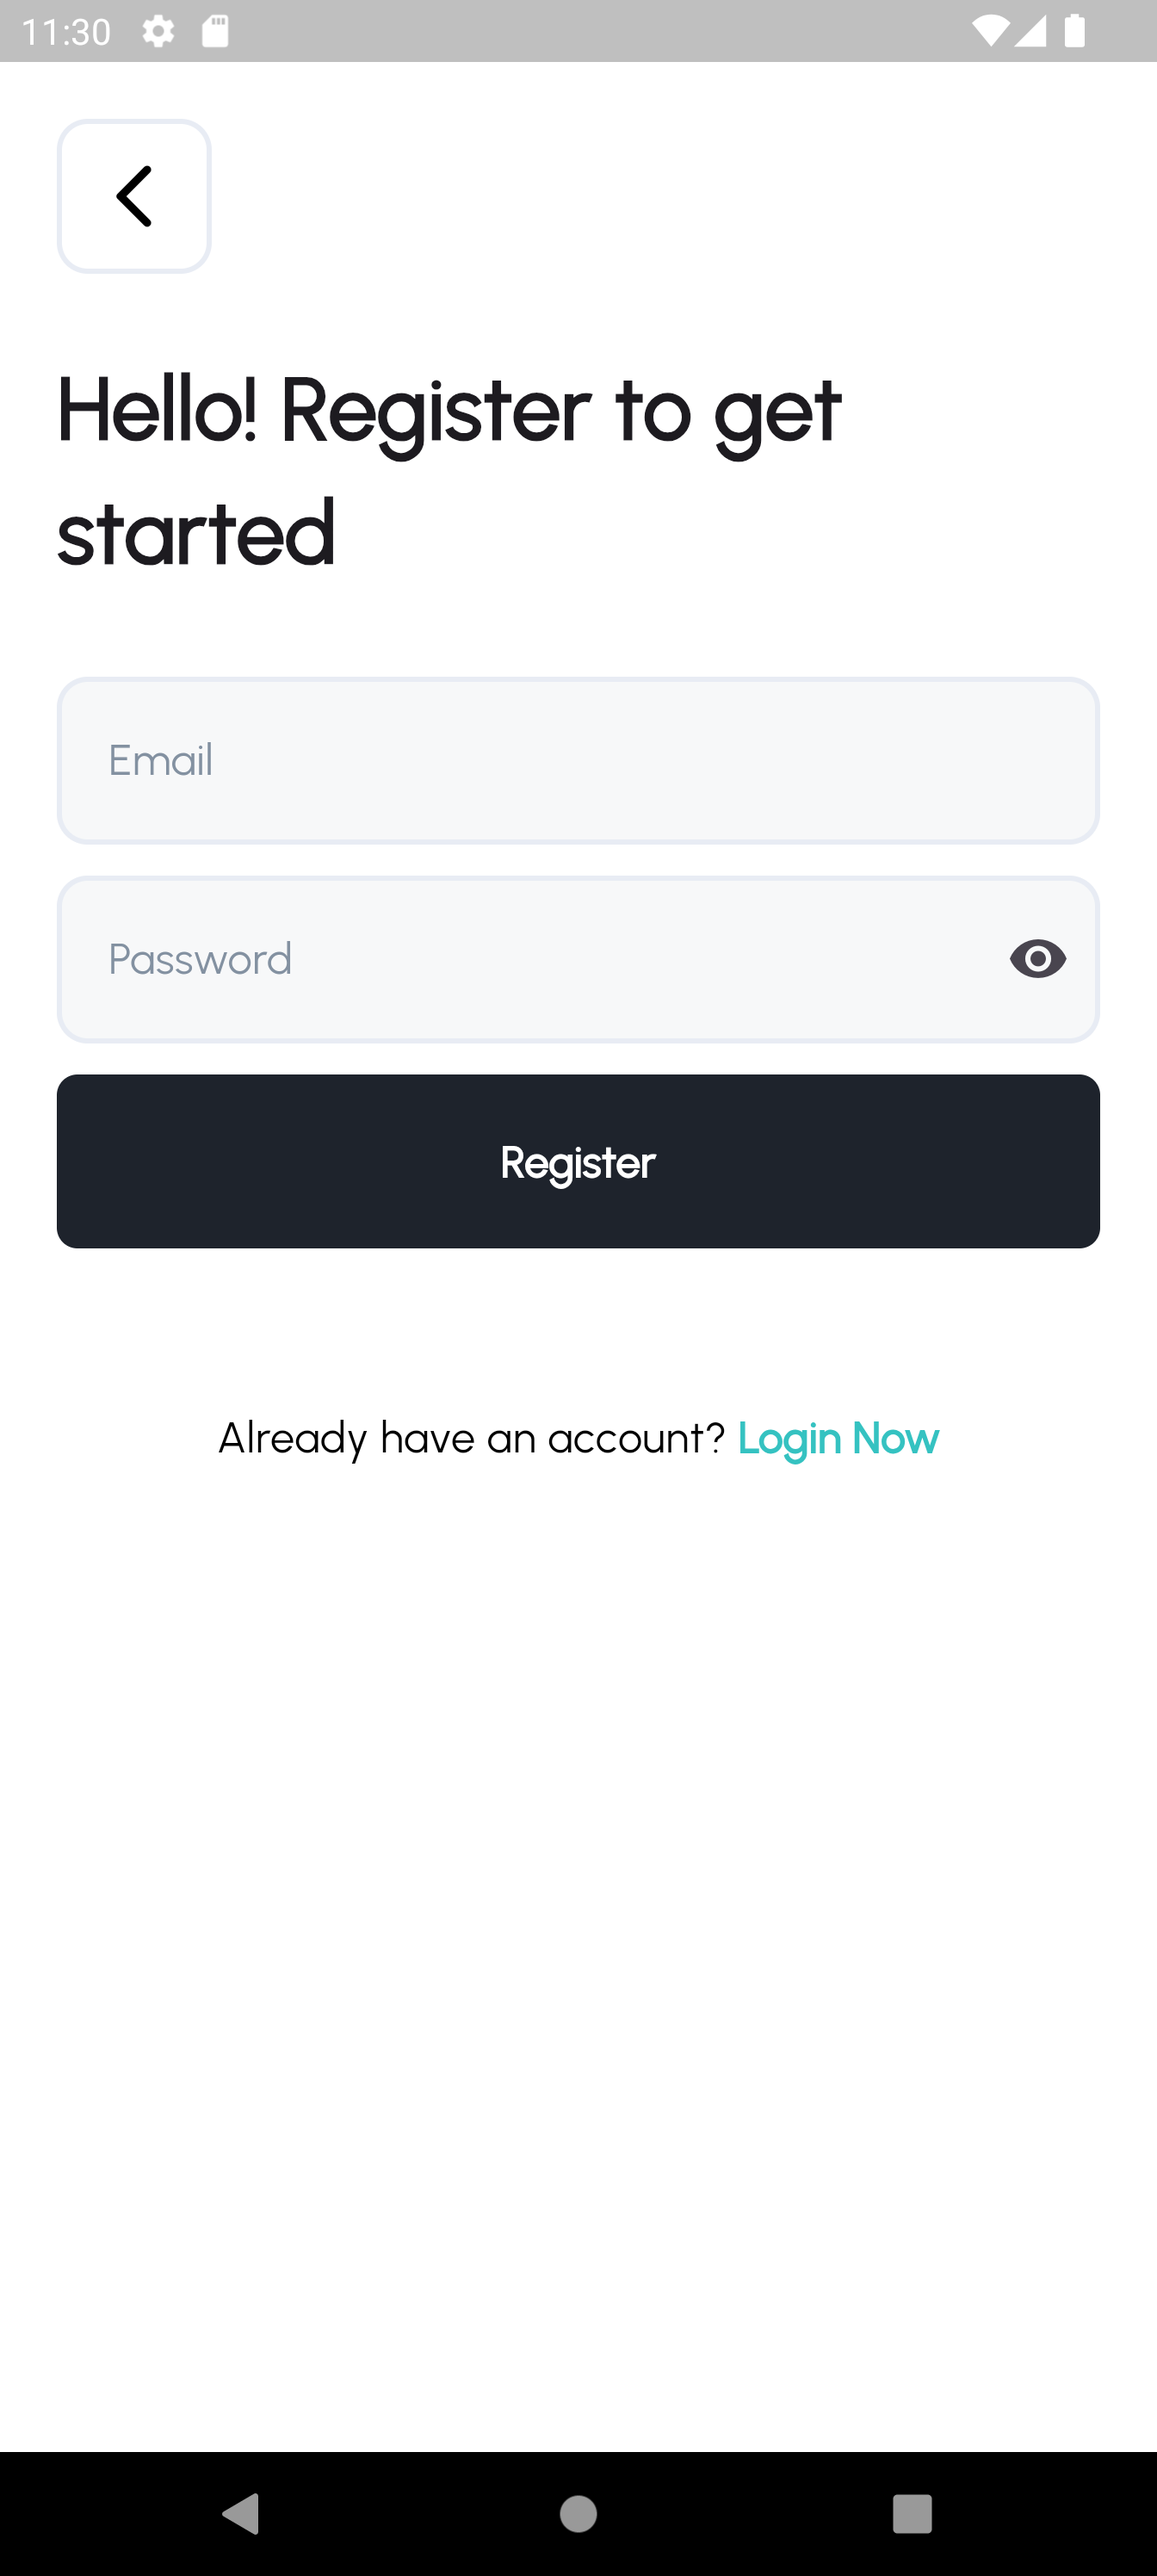
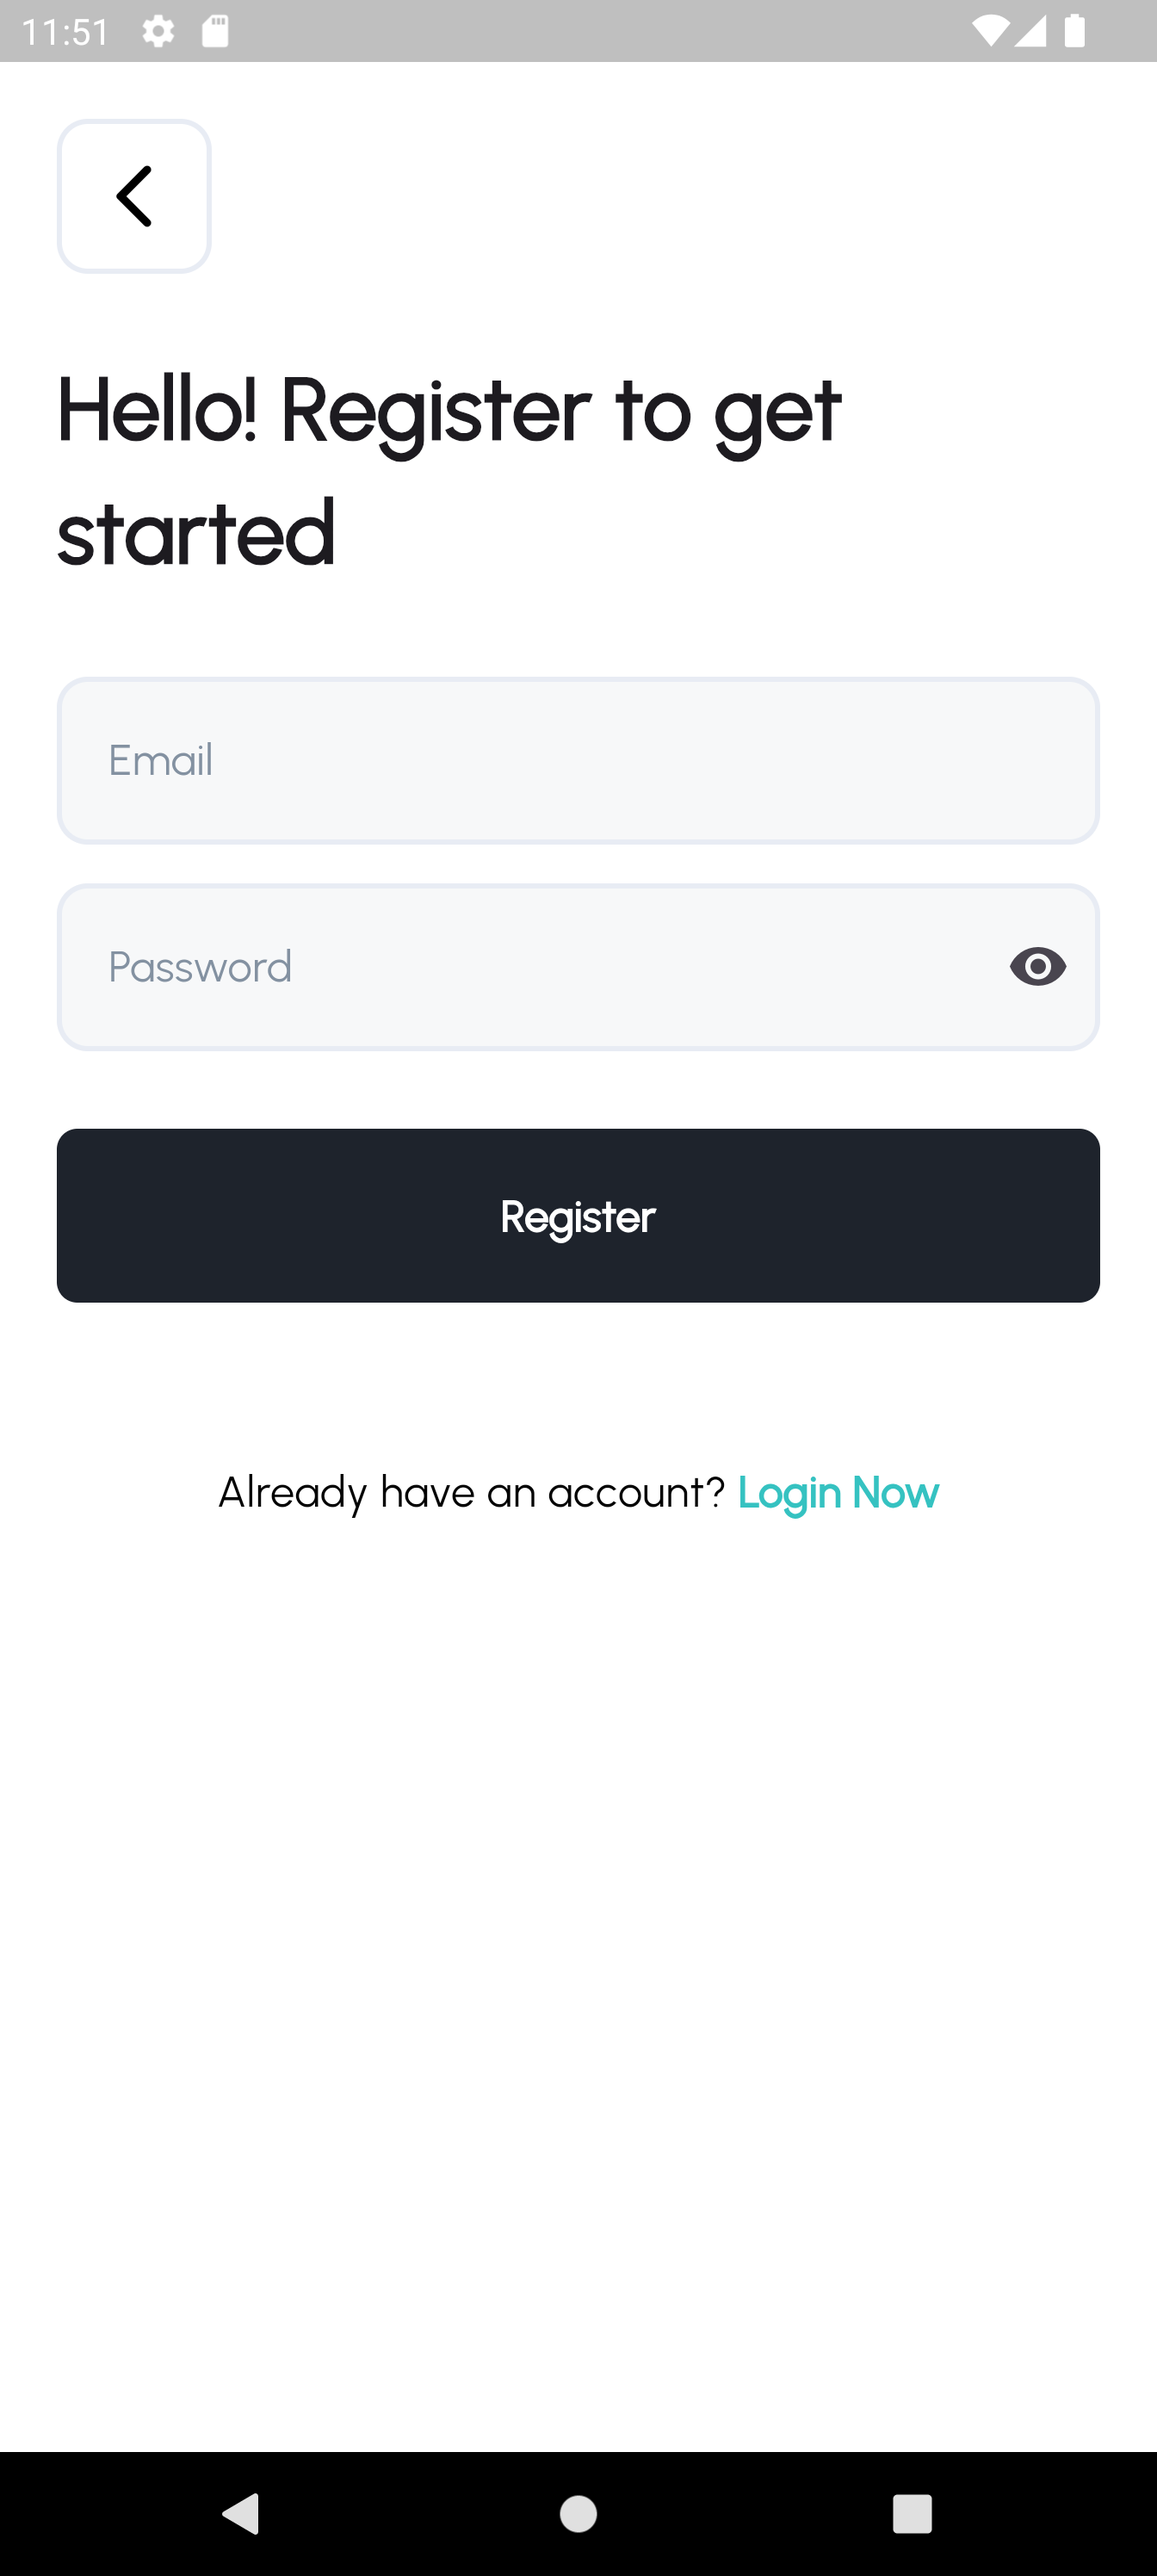
edit spacing

diff --git a/lib/features/auth/presentation/view/register_screen/register_screen_body.dart b/lib/features/auth/presentation/view/register_screen/register_screen_body.dart
@@ -58,9 +58,9 @@ class _RegisterScreenBodyState extends State<RegisterScreenBody> {
                 ),
                 const Gap(32),
                 EmailTextField(hintText: 'Email', controller: _email),
-                const Gap(12),
+                const Gap(15),
                 PasswordTextField(hintText: 'Password', controller: _password),
-                const Gap(12),
+                const Gap(30),
                 BlocConsumer<AuthCubit, AuthState>(
                   listener: (context, state) {
                     if (state is RegisterLoading) {
